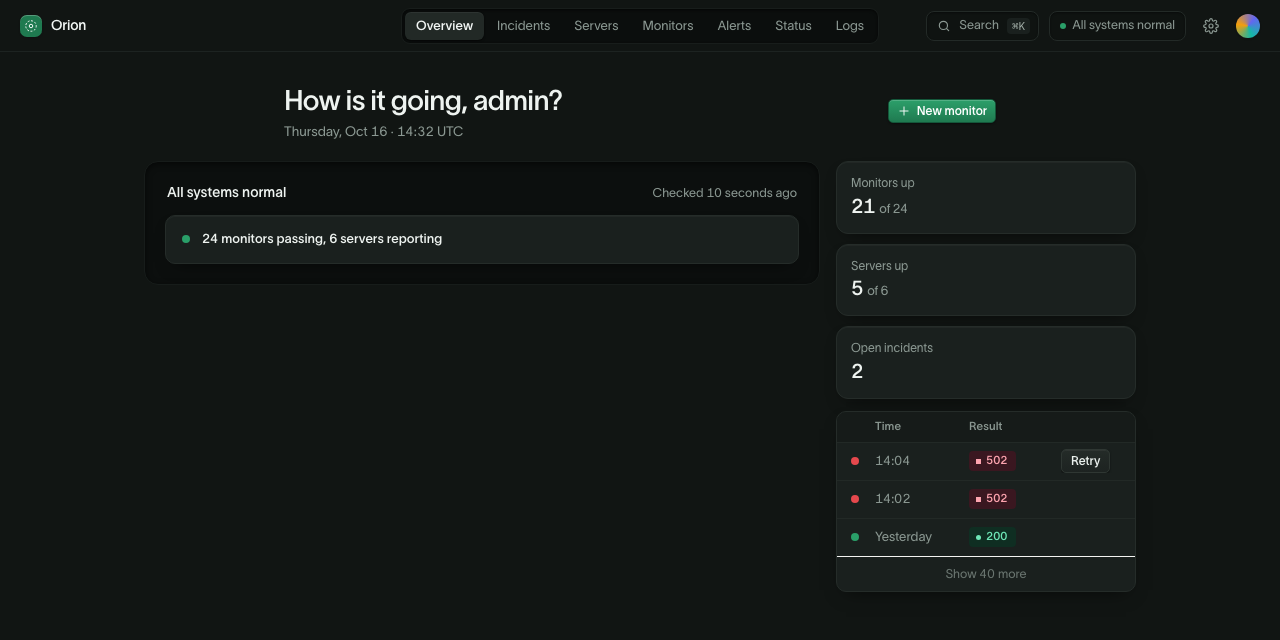
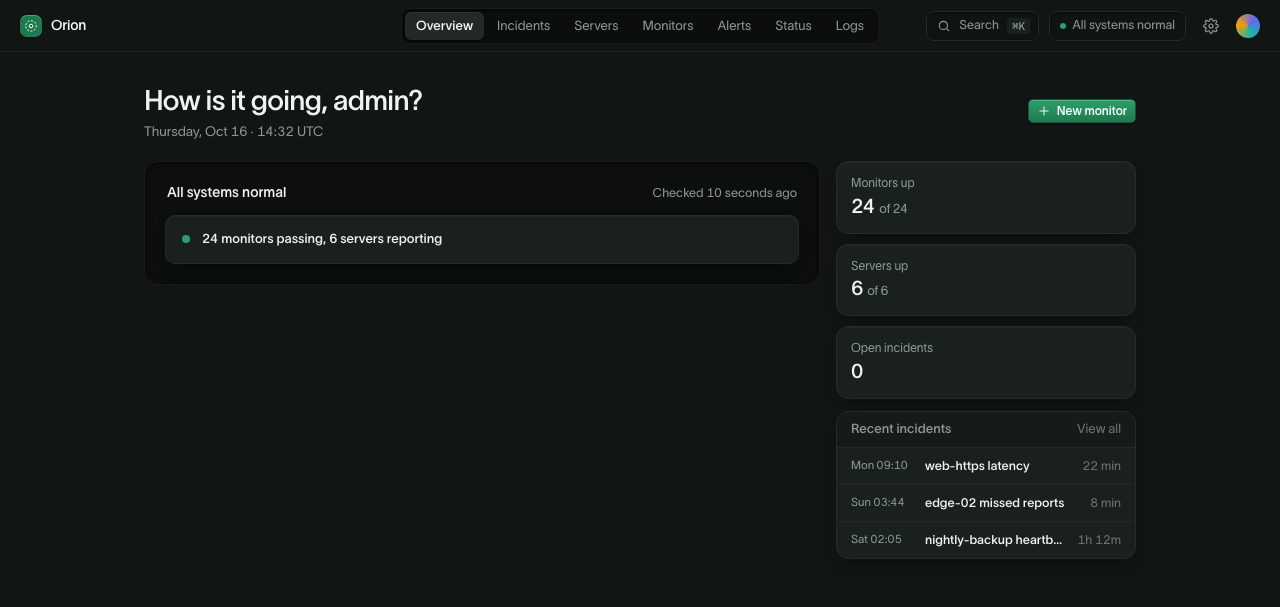
docs(design): fix overview-all-good artboard
-use the standard header and recent incidents box;
-show all-good counts;

diff --git a/docs/design/artboards/overview-all-good.html b/docs/design/artboards/overview-all-good.html
@@ -1,6 +1,6 @@
 <!doctype html>
 <html lang="en"><head><meta charset="utf-8"><title>Overview, all good</title><link rel="stylesheet" href="orion.css"></head>
 <body><style>body{margin:0}</style>
-<div class="app light fr" style="width:1280px;height:640px">
-<header class="hdr"><b class="logo"><span class="mk"><svg width="14" height="14" viewBox="0 0 24 24" fill="none" stroke="currentColor" stroke-width="1.6" stroke-linecap="round" stroke-linejoin="round" aria-hidden="true"><circle cx="12" cy="12" r="3"/><circle cx="12" cy="12" r="9" stroke-dasharray="2 4"/></svg></span>Orion</b><nav class="tray"><a href="#" class="on">Overview</a><a href="#">Incidents</a><a href="#">Servers</a><a href="#">Monitors</a><a href="#">Alerts</a><a href="#">Status</a><a href="#">Logs</a></nav><div class="hr3"><span class="cmdk"><svg width="14" height="14" viewBox="0 0 24 24" fill="none" stroke="currentColor" stroke-width="2" stroke-linecap="round" aria-hidden="true"><circle cx="11" cy="11" r="7"/><path d="M20 20l-3.5-3.5"/></svg> Search <kbd>&#8984;K</kbd></span><span class="hst"><i></i>All systems normal</span><span class="gear" aria-label="Settings"><svg width="16" height="16" viewBox="0 0 24 24" fill="none" stroke="currentColor" stroke-width="1.8" stroke-linecap="round" stroke-linejoin="round" aria-hidden="true"><circle cx="12" cy="12" r="3"/><path d="M19.4 15a1.7 1.7 0 0 0 .3 1.8l.1.1a2 2 0 1 1-2.8 2.8l-.1-.1a1.7 1.7 0 0 0-1.8-.3 1.7 1.7 0 0 0-1 1.5V21a2 2 0 1 1-4 0v-.1a1.7 1.7 0 0 0-1.1-1.5 1.7 1.7 0 0 0-1.8.3l-.1.1a2 2 0 1 1-2.8-2.8l.1-.1a1.7 1.7 0 0 0 .3-1.8 1.7 1.7 0 0 0-1.5-1H3a2 2 0 1 1 0-4h.1a1.7 1.7 0 0 0 1.5-1.1 1.7 1.7 0 0 0-.3-1.8l-.1-.1a2 2 0 1 1 2.8-2.8l.1.1a1.7 1.7 0 0 0 1.8.3H9a1.7 1.7 0 0 0 1-1.5V3a2 2 0 1 1 4 0v.1a1.7 1.7 0 0 0 1 1.5 1.7 1.7 0 0 0 1.8-.3l.1-.1a2 2 0 1 1 2.8 2.8l-.1.1a1.7 1.7 0 0 0-.3 1.8V9a1.7 1.7 0 0 0 1.5 1H21a2 2 0 1 1 0 4h-.1a1.7 1.7 0 0 0-1.5 1z"/></svg></span><span class="av"></span></div></header><div class="body"><div class="panelx"><div class="phd n"><div><h1>How is it going, admin?</h1><div class="phs">Thursday, Oct 16 &middot; 14:32 UTC</div></div><div class="acts"><a href="#" class="btn sm p"><svg width="14" height="14" viewBox="0 0 24 24" fill="none" stroke="currentColor" stroke-width="1.6" stroke-linecap="round" stroke-linejoin="round" aria-hidden="true"><path d="M12 5v14M5 12h14"/></svg> New monitor</a></div></div><div class="pbody"><div class="inner"><div style="display:grid;grid-template-columns:minmax(0,1fr) 300px;gap:16px;align-items:start"><div class="col" style="gap:12px"><div class="field"><div class="ft"><b>All systems normal</b><span>Checked 10 seconds ago</span></div><div class="pc"><div class="in row" style="gap:12px"><span class="dt8" style="background:#2a9f69"></span><b style="font-weight:500">24 monitors passing, 6 servers reporting</b></div></div></div></div><div class="col" style="gap:12px"><div class="stat3" style="grid-template-columns:1fr"><div><span>Monitors up</span><b>21 <small style="font-size:13px;color:#a1a1aa;font-weight:400">of 24</small></b></div><div><span>Servers up</span><b>5 <small style="font-size:13px;color:#a1a1aa;font-weight:400">of 6</small></b></div><div><span>Open incidents</span><b>2</b></div></div><div class="gt"><div class="r h" style="--c:12px 70px minmax(0,1fr) 80px 80px"><span></span><span>Time</span><span>Alert</span><span>Result</span><span></span></div><div class="r" style="--c:12px 70px minmax(0,1fr) 80px 80px"><span><span class="dt8" style="background:#e5484d"></span></span><span><span class="m">14:04</span></span><span><b>Critical down</b> <span class="m mono">INC-0231</span></span><span><span class="b failed">502</span></span><span><a href="#" class="btn sm">Retry</a></span></div><div class="r" style="--c:12px 70px minmax(0,1fr) 80px 80px"><span><span class="dt8" style="background:#e5484d"></span></span><span><span class="m">14:02</span></span><span><b>Critical down</b> <span class="m mono">INC-0231</span></span><span><span class="b failed">502</span></span><span></span></div><div class="r" style="--c:12px 70px minmax(0,1fr) 80px 80px"><span><span class="dt8" style="background:#2a9f69"></span></span><span><span class="m">Yesterday</span></span><span><b>Disk high</b> <span class="m mono">INC-0230</span></span><span><span class="b sent">200</span></span><span></span></div><div class="foot">Show 40 more</div></div></div></div></div></div></div></div></div>
+<div class="app light fr" style="width:1280px;height:607px">
+<header class="hdr"><b class="logo"><span class="mk"><svg width="14" height="14" viewBox="0 0 24 24" fill="none" stroke="currentColor" stroke-width="1.6" stroke-linecap="round" stroke-linejoin="round" aria-hidden="true"><circle cx="12" cy="12" r="3"/><circle cx="12" cy="12" r="9" stroke-dasharray="2 4"/></svg></span>Orion</b><nav class="tray"><a href="#" class="on">Overview</a><a href="#">Incidents</a><a href="#">Servers</a><a href="#">Monitors</a><a href="#">Alerts</a><a href="#">Status</a><a href="#">Logs</a></nav><div class="hr3"><span class="cmdk"><svg width="14" height="14" viewBox="0 0 24 24" fill="none" stroke="currentColor" stroke-width="2" stroke-linecap="round" aria-hidden="true"><circle cx="11" cy="11" r="7"/><path d="M20 20l-3.5-3.5"/></svg> Search <kbd>&#8984;K</kbd></span><span class="hst"><i></i>All systems normal</span><span class="gear" aria-label="Settings"><svg width="16" height="16" viewBox="0 0 24 24" fill="none" stroke="currentColor" stroke-width="1.8" stroke-linecap="round" stroke-linejoin="round" aria-hidden="true"><circle cx="12" cy="12" r="3"/><path d="M19.4 15a1.7 1.7 0 0 0 .3 1.8l.1.1a2 2 0 1 1-2.8 2.8l-.1-.1a1.7 1.7 0 0 0-1.8-.3 1.7 1.7 0 0 0-1 1.5V21a2 2 0 1 1-4 0v-.1a1.7 1.7 0 0 0-1.1-1.5 1.7 1.7 0 0 0-1.8.3l-.1.1a2 2 0 1 1-2.8-2.8l.1-.1a1.7 1.7 0 0 0 .3-1.8 1.7 1.7 0 0 0-1.5-1H3a2 2 0 1 1 0-4h.1a1.7 1.7 0 0 0 1.5-1.1 1.7 1.7 0 0 0-.3-1.8l-.1-.1a2 2 0 1 1 2.8-2.8l.1.1a1.7 1.7 0 0 0 1.8.3H9a1.7 1.7 0 0 0 1-1.5V3a2 2 0 1 1 4 0v.1a1.7 1.7 0 0 0 1 1.5 1.7 1.7 0 0 0 1.8-.3l.1-.1a2 2 0 1 1 2.8 2.8l-.1.1a1.7 1.7 0 0 0-.3 1.8V9a1.7 1.7 0 0 0 1.5 1H21a2 2 0 1 1 0 4h-.1a1.7 1.7 0 0 0-1.5 1z"/></svg></span><span class="av"></span></div></header><div class="body"><div class="panelx"><div class="phd"><div><h1>How is it going, admin?</h1><div class="phs">Thursday, Oct 16 &middot; 14:32 UTC</div></div><div class="acts"><a href="#" class="btn sm p"><svg width="14" height="14" viewBox="0 0 24 24" fill="none" stroke="currentColor" stroke-width="1.6" stroke-linecap="round" stroke-linejoin="round" aria-hidden="true"><path d="M12 5v14M5 12h14"/></svg> New monitor</a></div></div><div class="pbody"><div class="inner"><div style="display:grid;grid-template-columns:minmax(0,1fr) 300px;gap:16px;align-items:start"><div class="col" style="gap:12px"><div class="field"><div class="ft"><b>All systems normal</b><span>Checked 10 seconds ago</span></div><div class="pc"><div class="in row" style="gap:12px"><span class="dt8" style="background:#2a9f69"></span><b style="font-weight:500">24 monitors passing, 6 servers reporting</b></div></div></div></div><div class="col" style="gap:12px"><div class="stat3" style="grid-template-columns:1fr"><div><span>Monitors up</span><b>24 <small style="font-size:13px;color:#a1a1aa;font-weight:400">of 24</small></b></div><div><span>Servers up</span><b>6 <small style="font-size:13px;color:#a1a1aa;font-weight:400">of 6</small></b></div><div><span>Open incidents</span><b>0</b></div></div><div class="box"><div class="bh">Recent incidents<a href="#" style="color:#71717a;font-weight:400">View all</a></div><div class="hist"><div><time>Mon 09:10</time><b>web-https latency</b><span style="color:#71717a">22 min</span></div><div><time>Sun 03:44</time><b>edge-02 missed reports</b><span style="color:#71717a">8 min</span></div><div><time>Sat 02:05</time><b>nightly-backup heartbeat missed</b><span style="color:#71717a">1h 12m</span></div></div></div></div></div></div></div></div></div></div>
 </body></html>

diff --git a/docs/design/artboards/README.md b/docs/design/artboards/README.md
@@ -97,7 +97,7 @@ Screen-map ref is the row number in `../screen-map.md` (`9.x` is section 9, prod
 | [monitors-empty](monitors-empty.html) ([light](png/monitors-empty-light.png), [dark](png/monitors-empty-dark.png)) | 460 | 7 | /monitors | apps/console/src/features/monitors/ |
 | [monitors-list](monitors-list.html) ([light](png/monitors-list-light.png), [dark](png/monitors-list-dark.png)) | 547 | 6 | /monitors | apps/console/src/features/monitors/monitors.view.tsx |
 | [onboarding](onboarding.html) ([light](png/onboarding-light.png), [dark](png/onboarding-dark.png)) | 460 | 36 | / (first run card) | apps/console/src/features/overview/ (new) |
-| [overview-all-good](overview-all-good.html) ([light](png/overview-all-good-light.png), [dark](png/overview-all-good-dark.png)) | 640 | 38 | / | apps/console/src/features/overview/ (new) |
+| [overview-all-good](overview-all-good.html) ([light](png/overview-all-good-light.png), [dark](png/overview-all-good-dark.png)) | 607 | 38 | / | apps/console/src/features/overview/ (new) |
 | [public-history](public-history.html) ([light](png/public-history-light.png), [dark](png/public-history-dark.png)) | 680 | 28 | /status/:slug/history | Core-served |
 | [public-incident](public-incident.html) ([light](png/public-incident-light.png), [dark](png/public-incident-dark.png)) | 620 | 30 | /status/:slug/incidents/:id | Core-served |
 | [public-manage](public-manage.html) ([light](png/public-manage-light.png), [dark](png/public-manage-dark.png)) | 560 | 33 | .../subscribers/manage/:token | Core-served |
